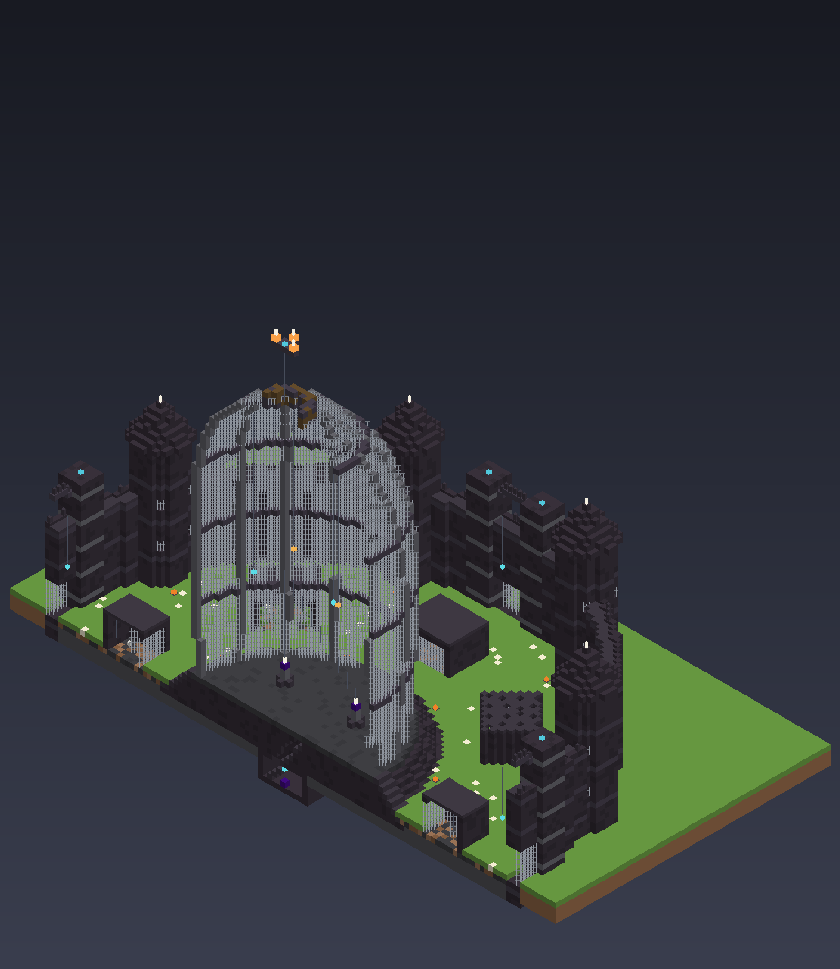
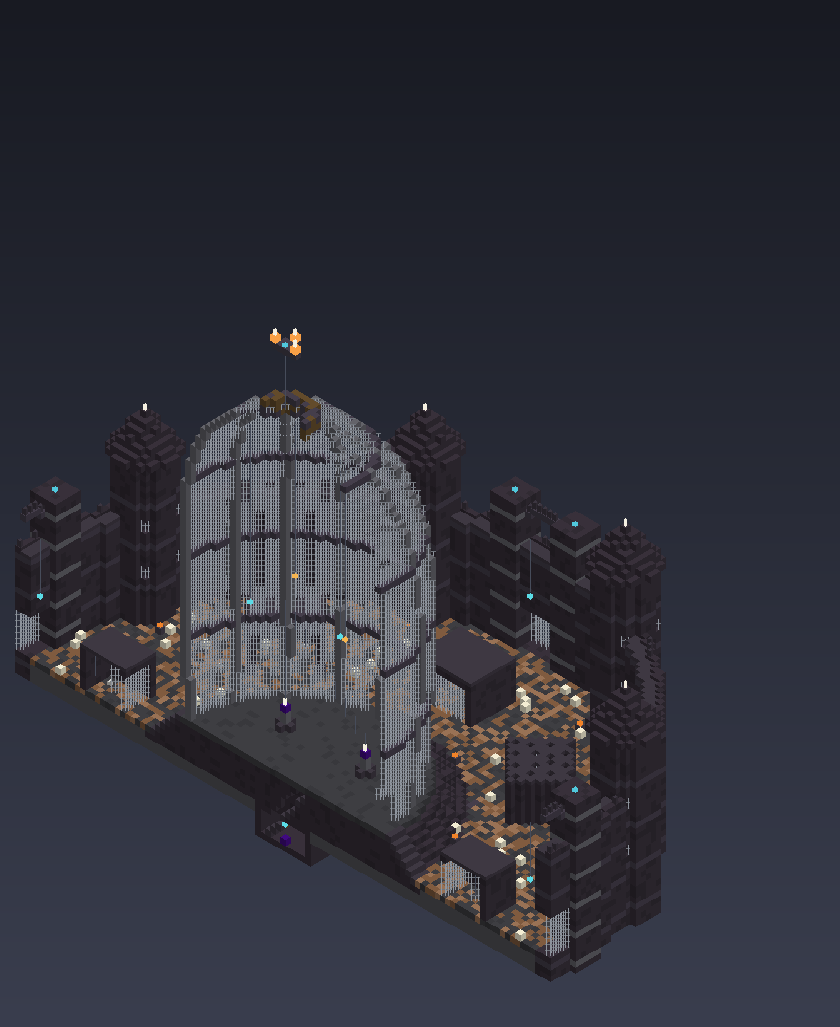
README for 0.3.0, version bump, keep the pack download cached even when the test fails
Claude-Session: https://claude.ai/code/session_01LHbBcTEf8UQnU4QoSVfnF2

diff --git a/unstable-frontiers/README.md b/unstable-frontiers/README.md
@@ -1,242 +1,166 @@
-# Unstable Frontiers
+# Unstable Frontiers 0.3.0 — an adventure expansion for Integrated Boogaloo
 
-A companion addon for the [Integrated Boogaloo](https://www.curseforge.com/minecraft/modpacks/integrated-boogaloo) modpack
-(by CraisinLord; Minecraft 1.21.1, NeoForge), built around the pack's [Antarchy](https://www.curseforge.com/minecraft/mc-mods/antarchy) creatures.
-Version 0.1.0 targeted Forge 1.20.1; from 0.2.0 it targets NeoForge 1.21.1 only.
-It adds the **Unstable Frontier**, a dangerous wilderness dimension in the spirit of OreSpawn's Danger Dimension: huge
-terrain, an ash-grey sky, cage towers on the skyline, and flying predators hunting giant insects at the foot of them.
+**Target: [Integrated Boogaloo](https://www.curseforge.com/minecraft/modpacks/integrated-boogaloo) 1.0.8** (CurseForge
+project 1501592, file 9325863): Minecraft 1.21.1, NeoForge 21.1.264, with the pack's
+**Antarchy 2.2.9+1.21.1** (required). The addon is built against exactly that NeoForge version and was tested against the
+pack's own jars, configs and KubeJS server scripts (see [Testing](#testing-what-was-checked-and-what-was-not)).
 
-This is **milestone 1**. It is a playable slice: the dimension, travel, one region, one cage tower design, bounded fights,
-one rivalry, one reward. The roadmap at the bottom covers the rest.
+It adds the **Unstable Frontier**: a wilderness the Cagewright once fenced in to hold Antarchy's monsters. You enter with a
+Rift Shard, follow a surveyor's journals from camp to camp, break open cages, rookeries and hives for the three parts of
+the Cagewright's Key, and use it on the **Great Cage** in the Rustbone Scar.
 
-## Compatibility: what is verified and what is not
+All structure pictures in this repository are **renders of the actual template files the game places**, drawn by
+`tools/structures/view.py`. They are not in-game screenshots.
 
-| | Status |
-|---|---|
-| Minecraft 1.21.1, NeoForge 21.1.x, Java 21 | Built against NeoForge 21.1.181 (the version Antarchy's own build uses); requires 21.1 or newer. **I have not seen the pack's exact NeoForge version yet.** |
-| Antarchy | **Optional dependency** (any version). Without it the addon uses vanilla stand-ins and says so in the log. |
-| Antarchy entity ids used | Read from Antarchy's public source, `common-1.21.1`/`neoforge-1.21.1` modules, version 2.2.9 (commit `f3e73b1e`): `mantis`, `alpha_mantis`, `scorpion`, `springbug`, `wasp`, `brutalfly`, `stratoshark`, `nightmare` and more (see the tags). **Not yet tested in a game with Antarchy installed.** |
-| Dedicated server | Smoke-tested in CI **without Antarchy** (see "Automated checks"). |
-| Client | Not tested by me; I cannot run a Minecraft client here. Client code is resources only (models, textures, lang). |
-| Integrated Superheroes, Morph, Electric Boogaloo (the pack's own mods) | Not integrated yet (milestone 5); their source is not public, so I need their real item ids from your install first. No Transformers mod is confirmed in the pack. Nothing in this addon disables powers or flight. |
+---
 
-Antarchy is "All Rights Reserved". This addon contains none of its code or assets; it refers to its creatures by id only,
-through config lists and optional tag entries, so nothing breaks when Antarchy is missing or renames something.
+## Install
 
-Antarchy's own dimensions (Cavaryn, Elythia, Thoraxis) are a termite horde world, a peaceful sky world and an inverted
-dream world. None plays the role of a danger dimension, so this addon adds its own rather than changing Antarchy's.
+1. Install Integrated Boogaloo **1.0.8** from CurseForge (or use your existing instance of that version).
+2. Put `unstable_frontiers-0.3.0.jar` in the instance's `mods` folder. Nothing else is needed: Antarchy is in the pack.
+3. Start the game. In a world, craft an **Unstable Rift Shard** (amethyst shards in the corners, crying obsidian on the
+   sides, an eye of ender in the middle) and use it.
 
-## Getting there and back
+If Antarchy is missing or too old, NeoForge stops at the loading screen and names it. If a datapack breaks a roster (or a
+future Antarchy renames a creature), the affected fight refuses to start and says which creature is missing, in chat and in
+`latest.log`; operators are told on login. The addon never swaps in other creatures.
 
-* **Unstable Rift Shard**: amethyst shards in the corners, crying obsidian on the sides, an eye of ender in the middle.
-  Use it anywhere to cross into the frontier, at the same x/z you left. Use it in the frontier to go back to where you left.
-  It is never used up (5 second cooldown).
-* **Safe arrival**: you land on the top solid block of your column. If that is water, lava, magma or nothing, a 3x3 deepslate
-  platform is built under you.
-* **Recovery**: lost your shard? `/frontier return` works for every player in the frontier (60 s cooldown). It takes you to
-  where you left; if that dimension is gone, to your respawn point; failing that, to world spawn. Your return point is
-  saved with your player data and survives death.
-* On arrival you are told how far, and which way, the nearest tower is.
+Existing worlds: the frontier is generated fresh the first time you enter it, so an existing Integrated Boogaloo world is
+fine. Only frontier chunks you have not visited get the new landmarks.
 
-## The frontier
+## The adventure
 
-Amplified terrain (towering cliffs and peaks) in two biomes:
+### Regions
 
-* **Gnashwood Wilds**: dark, choked forest of dark oak, giant pines and huge mushrooms, purple grass and blood-red leaves,
-  falling ash, a bruised violet sky. Wild skirmishes are common.
-* **Hushed Barrens**: sparse, grey and quiet. The breathing room: wild skirmishes are rare here unless a tower is near.
-
-Nights are dark but not blinding (ambient light 0.06), and night changes who is out: by day mostly insects with the odd
-stratoshark or brutalfly, by night more predators, and Antarchy's **Nightmare**.
-
-## The cage tower
-
-Original design, built from vanilla blocks. 25 x 25 footprint, 62 blocks tall, three stacked cages that step inward, and
-an open crown lit like a beacon so you can see it from far off.
-
-| Stage | Height | Who lives there (Antarchy / without Antarchy) | Chest |
-|---|---|---|---|
-| The Swarm Pen | floor 0 | mantises, scorpions / spiders, cave spiders | iron, gold, pearls, a diamond or three |
-| The Hatchery | floor 1 | scorpions, wasps, a springbug / cave spiders, spiders | diamonds, enchanted book, 20% netherite scrap |
-| The Aerie | floor 2 | stratosharks, wasps, a brutalfly, a blaze / phantoms, a blaze | diamonds, level-30 book, 35% scrap, 8% totem |
-| The Crown | top | an alpha mantis and two mantises / a ravager and two spiders | the vault: diamonds, scrap, a Cage Trophy, 25% netherite ingot, 20% enchanted golden apple |
-
-Every floor's chest sits on a pedestal in a small cage in the middle, visible through the bars from outside.
-
-**Ways in**: the south door; the ladder up the iron spine on the east face, with a bridge to every floor; the ladder inside
-each floor up through the ceiling; a bent-bar gap in every wall; flying in over the crown; or breaking the bars. **Nothing is
-unbreakable.** Robbing chests without fighting is allowed; the completion reward needs the fights.
-
-**How a fight works**
-
-1. Step inside a cage that is not cleared and it wakes (creative mode never wakes one).
-2. It sends `wavesPerFloor` waves (the crown sends one). Each wave waits for the cooldown and for the floor to thin out.
-3. The floor is cleared when every wave has come and every creature is dead. Cleared floors stay cleared for good.
-4. Clear all four stages and the tower is complete. Every player who fought there and is within 96 blocks gets 2 or 3
-   **Cage Trophies** and 150 experience, and on their first tower ever, the **Swarmbreaker**. Each player is rewarded once
-   per tower.
-
-**Limits and persistence**
-
-* One stage per tower fights at a time, however many players come. Several players share one fight; it is not duplicated.
-* The number of towers fighting at once on the server is capped.
-* Creatures spawn only while a player is near. If nobody is near for `disengageTicks` (20 s), the unfinished floor resets:
-  its creatures are removed and it can be fought again later. Cleared floors, completion and rewards are untouched.
-* Tower creatures are leashed: past `towerLeashRadius` they drop their target and walk back; far past it they are put back.
-* Tower state is saved in the frontier's `data/unstable_frontiers_towers.dat` (versioned). Unloading, reloading and
-  restarting cannot reset rewards. A creature from a fight that was reset while its chunk was unloaded is removed when the
-  chunk loads (each creature carries its tower id and fight session).
-* Towers are at least 9 chunks apart, on a 22-chunk grid (`worldgen/structure_set/cage_towers.json`), never over deep water.
-  Generation reads five heights per site and builds only the chunk being generated.
-
-## Living monster conflict
-
-The one rivalry in this milestone: **flying predators hunt ground insects** (entity tags `unstable_frontiers:raptors` and
-`unstable_frontiers:swarm`). Every few seconds near each player, if there are fewer wild creatures than the cap, a small
-skirmish is staged: two or three insects, and (always at night, 40% of the time by day) a predator above them. A predator with
-nothing to do is pointed at the nearest insect; the insect fights back with its own AI. Skirmishes favour the foot of a
-nearby tower.
-
-What keeps it bounded:
-
-* Only creatures this addon spawned take part. Pets, Antarchy's bosses and everything else are never touched, and no
-  creature's AI is replaced.
-* Searches are boxes around players (`rivalrySearchRadius`), never world scans, every `aiUpdateIntervalTicks`.
-* At most `rivalryFightsPerPlayer` fights near each player. A fight ends after `pursuitTicks` or when the two drift apart,
-  and the predator then rests for `rivalryCooldownTicks`.
-* Unloaded chunks do not tick, so no fight happens off-screen. Wild creatures are not persistent, so normal despawning clears
-  them when you leave, and the director restocks only near players. The frontier can't be emptied for good.
-* **Loot eligibility**: a frontier creature drops items and experience only if a player hurt it recently, and at most
-  `maxDropsPerMob` stacks. Predator-on-prey kills and unwatched fights leave no items on the ground.
-
-Antarchy's Nightmare also hunts other mobs on its own, through its own AI. This addon does not change that.
-
-## Rewards and progression
-
-* **Cage Trophy**: from tower completion (2 or 3) and every crown vault (1). Repairs the Swarmbreaker.
-* **Swarmbreaker** (glaive): 8 attack damage like a netherite sword, 1800 durability, fire-proof, +50% damage to insects
-  (`unstable_frontiers:frontier_insects` plus every vanilla arthropod). **Pounce**: use it to leap forward and up, then land in a
-  shockwave (6 damage, 9 to insects, knockback) with no fall damage. 8 second cooldown.
-  Won from your first tower, or crafted later from a netherite sword surrounded by four Cage Trophies.
-* Advancements, under their own tab: craft a shard, enter the frontier, step into a tower, take a trophy, own a Swarmbreaker.
-* Item tooltips are the in-game guide.
-
-Diamond or netherite gear is the starting point. The floors pay in diamonds, books and scrap, and only the vault gives
-netherite ingots. I have not compared this against Antarchy's own gear in play yet.
-
-## Configuration and presets
-
-`config/unstable_frontiers-common.toml`. Set `density.preset`, then override single values (-1 = use the preset).
-Every value is range-checked; NeoForge resets an out-of-range value to its default.
-
-| Limit | Conservative | **Standard** | High density |
-|---|---|---|---|
-| encounterMobsPerPlayer | 6 | **10** | 16 |
-| encounterMobsPerTower | 10 | **16** | 28 |
-| simultaneousTowerEncounters | 2 | **3** | 6 |
-| wavesPerFloor | 2 | **3** | 4 |
-| mobsPerWave | 3 | **5** | 8 |
-| waveCooldownTicks | 300 | **200** | 140 |
-| ambientMobsPerPlayer | 5 | **9** | 16 |
-| ambientSpawnIntervalTicks | 400 | **240** | 140 |
-| rivalrySearchRadius | 16 | **24** | 32 |
-| aiUpdateIntervalTicks | 60 | **40** | 20 |
-| rivalryFightsPerPlayer | 1 | **2** | 4 |
-| maxDropsPerMob | 3 | **4** | 6 |
-| particleDensity | 0.4 | **1.0** | 1.0 |
-
-Also: `pursuitTicks`, `rivalryCooldownTicks`, `towerLeashRadius`, `disengageTicks`, `towerChancePercent` (new chunks
-only), `returnCommandCooldownSeconds`, and every roster (entity ids, `@N` = at most N per wave). The tower spacing lives in
-the structure set JSON; a data pack can override it.
-
-These numbers are a starting point. They have **not been profiled** on your machine. Profile with Spark
-(`/spark profiler start`, fight a tower, `/spark profiler stop`) and send me the link. Many Antarchy creatures are large
-GeckoLib models; on an RX 6650 XT the render cost of a crowded floor is the thing to watch, and I can't predict a frame rate.
-
-**Memory**: Integrated Boogaloo has about 170 mods; give it 8 to 10 GB (CurseForge > Settings > Minecraft > Allocated Memory). Not more than about 12 GB of
-your 32: a larger heap means longer garbage-collection pauses, not more speed.
-
-## Commands
-
-| Command | Who | What |
+| Region | Look | What you find there |
 |---|---|---|
-| `/frontier return` | everyone, in the frontier | the recovery route home (cooldown) |
-| `/frontier go` | op | travel in, like the shard |
-| `/frontier locate` | op | nearest generated tower (up to 64 chunks) |
-| `/frontier stats` | op | towers known, fighting, tracked creatures, rivalry fights, effective limits |
-| `/frontier tower info` | op, standing in a tower's footprint | cleared stages, active stage, wave, alive, session, participants, rewarded |
-| `/frontier tower start <0-3>` | op | wake a stage now (runs even with nobody near, until it resets) |
-| `/frontier tower reset` | op | un-clear every stage and remove its creatures (rewarded players stay rewarded) |
-| `/frontier tower forget` | op | delete the tower's record entirely (it can reward everyone again) |
-| `/frontier tower build` | op | build a tower here, registered like a generated one |
+| **Gnashwood Wilds** | dark choked forest, blood-red leaves, falling ash | Gibbet Spires, Brood Hives, Carrion Fields, camps |
+| **Hushed Barrens** | grey, sparse, quiet | Gibbet Spires, the Hanging Gaol, Carrion Fields, camps |
+| **Talon Spires** | pale sky, hooked rock needles, floating islets | Rookeries, Carrion Fields, camps |
+| **Rustbone Scar** | red ground, bleached rib arches, crimson spores | the Great Cage (only here) |
 
-Use `/frontier tower build`, not `/place structure`: the vanilla command builds the blocks but saves no structure record,
-so the encounter system cannot see that tower.
+Terrain is standard overworld-style noise (hills, mountains, rivers, some sea). Earlier versions used amplified terrain,
+which left no room for the large landmarks.
 
-## Building
+### Landmarks
 
-Needs Java 21 and Gradle 8.10 or newer (or the Gradle that ships with your IDE). From this folder:
+| Landmark | Size | The fight | Reward |
+|---|---|---|---|
+| **Gibbet Spire** ([render](docs/renders/gibbet_spire.png)) | 47×100×47 | an octagonal birdcage spire: waves in the Swarm Pen, a Hatchery whose waves come from its egg clutches, an Aerie ambush from the hanging gibbets, and the **Crowned Mantis** (Antarchy alpha mantis) in the crown | Cage Trophy; the crown vault opens |
+| **Hanging Gaol** ([render](docs/renders/hanging_gaol.png)) | 65×82×49 | five cells hung over a pit on chains and rope bridges. Each prisoner (Hercules beetle, wasps, emperor scorpion, brutalfly…) is visible and dormant until you step aboard. Free four cells to unseal **the Gaoler** (manticore) | Cage Trophy; the warden's vault |
+| **Rookery** ([render](docs/renders/rookery.png)) | 55×104×55 | a leaning white crag with a nest of whole trees on top. Stratosharks roost on the perches, asleep until you land in the nest or strike one. Clear the roost and **the Rookmother** (Antarchy nightmare) comes in from the sky. Scavengers wait in the tunnel | Rookery Talon |
+| **Brood Hive** ([render](docs/renders/brood_hive.png)) | 61×54×61 | a mud-and-chitin mound: an ambush in the hall, a brood chamber that keeps hatching while its clutches stand, and **the Hive Tyrant** (Hercules beetle) on a chitin throne. The resin wall behind it opens when it dies | Hive Heart |
+| **Carrion Field** ([render](docs/renders/carrion_field.png)) | 67×34×41 | not a fight you start: a giant's skeleton still being eaten. Insects live in the ribs, predators on the spine, and they fight each other whether or not you are there | the gullet's chest |
+| **Expedition camps** (3 kinds) ([render](docs/renders/camp_torn.png)) | 29×16×29 | Ilsa Vane's camps: intact, ransacked from below, torn open from above. Each has a different journal on its lectern | supplies; the Rift Lens (60%) |
+| **Waysides** (4 kinds) ([render](docs/renders/wayside_impaled.png)) | ≤11 wide | a fallen gibbet, an impaled carcass, an egg cluster, a claw-raked stone: small marks between the big landmarks | — |
+| **The Great Cage** ([render](docs/renders/great_cage.png), [cutaway](docs/renders/great_cage_section.png)) | 115×100×115 | a ring-walled prison with drum towers, eight cell blocks and a domed birdcage. The Cagewright's Key opens the lock by the south door and wakes **the Cagewright's Beast** (Antarchy basilisk). While its four pylons stand it takes only a sixth of the damage; the pylon cores break quickly once the fight is on, and every one that falls brings flyers down from the dome | Heart of the Great Cage; the vault below |
+
+### How fights behave
+
+* **Situated, not spawned around you.** Prisoners, roosting flyers and residents are already in their places when you
+  arrive. A fight only starts when you enter its part of the landmark (or strike one of its creatures).
+* **Bounded.** No constant spawning: every fight has a fixed number of waves, and residents that are all killed move back
+  in only after a Minecraft day. Creature health and damage are each creature's own; nothing is inflated. Integrated
+  Boogaloo's own difficulty scaling (Boogaloo Core's KubeJS MobScaling) applies to these creatures as it does to any spawn.
+* **Telegraphed elites.** Guardians have a boss bar and abilities that are always announced first: a ring drawn on the
+  ground before a **slam**, a call before a **rally**, a crouch before a **pounce**, a breath before a **screech**
+  (slowness and darkness). Each can be avoided by reacting.
+* **Leave and it resets.** A fight nobody is near for 20 seconds resets; its creatures leave and you can try again.
+  Cleared parts stay cleared.
+* **Per-player loot.** Chests use loot tables, which Lootr (in the pack) turns into per-player chests. Trophies are given
+  once per player per landmark, to everyone who fought in it.
+* **Drops only from your kills.** A frontier creature drops loot and experience only if a player hurt it, so creatures
+  killing each other never pile up items.
+
+### Rewards and how they connect to the pack
+
+The rewards are built around Antarchy's own progression rather than bigger numbers.
+
+| Item | Where from | Use |
+|---|---|---|
+| **Cage Trophy** | Gibbet Spire, Hanging Gaol guardians | key part; repairs the Swarmbreaker |
+| **Rookery Talon** | the Rookmother | key part; forges and repairs the Shackle |
+| **Hive Heart** | the Hive Tyrant | key part; forges the Swarmbreaker |
+| **Cagewright's Key** | trophy + talon + heart + Antarchy uranium ingot + tripwire hook | opens the Great Cage |
+| **Heart of the Great Cage** | the Cagewright's Beast | builds a Cage Beacon |
+| **Rift Lens** | camps (60%), or spyglass + amethyst + Antarchy chitin | in the frontier: names the nearest cage, lair and camp with distance, direction and whether you have conquered it; shows the Great Cage once you carry the key |
+| **Swarmbreaker** | Hive Heart + 2 Antarchy mantis claws + netherite sword | brood-breaker glaive (Better Combat glaive moves in the pack). Hits like a netherite sword; +50% vs insects; Pounce lands in a shockwave that smashes egg clutches (ending a hatchery's waves sooner) and staggers insects. It is a crowd and nest tool, not a replacement for Antarchy's Ultimate or Big Bertha weapons |
+| **Cagewright's Shackle** | Rookery Talon + chains + lead | binds a hostile creature below a third of its health as an ally for 60 s; it then crumbles with no drops. Not on bosses (`c:bosses`, Antarchy's spell-resistant bosses) or elites. 6 uses |
+| **Cage Beacon** | Heart of the Great Cage + crying obsidian + iron bars | safe ground: no natural frontier spawns within 48 blocks and residents do not return there; anchors your Rift Shard so you arrive beside it |
+
+**Antarchy materials as bounties.** Landmark chests and creatures yield what Antarchy's own recipes need: mantis claws,
+springbug legs, stratoshark fins, brutalfly wings (Brutalfly Elytra), nightmare scales, emperor scorpion stingers and
+Hercules horns (Big Bertha parts), basilisk fangs, primordial scutes, uranium and titanium nuggets and ingots (Ultimate
+gear). The Gaol's cells are where to hunt for specific Big Bertha creatures.
+
+**Superheroes.** The Hulk serum in Marvel Superheroes wants Antarchy uranium; the Great Cage vault always holds uranium
+ingots, and when Marvel Superheroes is installed it has a 35% chance of an X-Gene (`marvel:x_genes`) for the serums. That
+entry lives in a loot table that only loads when that mod is present.
+
+**Flight, powers and transformations.** Nothing in the addon disables flight (Viltrumite Flight, Brutalfly Elytra,
+Manticore Wings) or powers. Flying past a climb does not skip a fight: sealed parts open only when the parts before them
+are cleared, and gates and vaults open only when their fight is won. Flyers in the Aerie, the roost and the Great Cage
+dome make the sky part of the fight.
+
+### Commands
+
+* `/frontier return` — everyone, in the frontier: go home (60 s cooldown). For when your shard is lost.
+* Operators: `/frontier go`, `/frontier locate <any|cage|lair|camp|great_cage>`, `/frontier stats`,
+  `/frontier landmark build <id> [rotation]`, `/frontier landmark info`, `/frontier landmark zone <zone> start|clear|reset`,
+  `/frontier landmark forget`, `/frontier debug rosters`, `/frontier debug dump <namespace>`.
+
+## Performance
+
+`config/unstable_frontiers-common.toml`. The limits protect the **server thread** (in single player, the integrated
+server on your CPU); your GPU is not what they affect.
+
+| Limit | CONSERVATIVE | **STANDARD** | HIGH_DENSITY |
+|---|---|---|---|
+| Landmark creatures alive per player / per landmark | 6 / 10 | 10 / 16 | 16 / 28 |
+| Fights running at once (server) | 2 | 3 | 6 |
+| Waves in a wave fight (unless the landmark sets its own) | 2 | 3 | 4 |
+| Creatures per wave | 3 | 5 | 8 |
+| Ticks between waves | 300 | 200 | 140 |
+| Residents per landmark | 4 | 6 | 10 |
+| Night overflight interval (ticks) | 12000 | 6000 | 3600 |
+| Rivalry search radius / update interval / fights per player | 16 / 60 / 1 | 24 / 40 / 2 | 32 / 20 / 4 |
+| Particle multiplier | 0.4 | 1.0 | 1.0 |
+
+**For your machine (32 GB RAM, Radeon RX 6650 XT, Core i3-12100-series):** use **STANDARD** (the default). The i3-12100 has
+four cores, and Integrated Boogaloo's 174 mods already load the server thread; HIGH_DENSITY is meant for 6+ cores. Give
+Minecraft 8–10 GB in the launcher (more than that does not help and lengthens garbage-collection pauses). If you see lag
+during the Great Cage fight, set `simultaneousEncounters = 1` and `particleDensity = 0.5` rather than switching preset.
+
+The addon's cost when nothing is fighting: one structure-reference lookup per player every 2 seconds and a short loop over
+known landmarks every half second. It never scans the world: every search is a box around one landmark or one player.
+
+## Testing: what was checked and what was not
+
+See [TESTING.md](TESTING.md) for the full report from the last CI runs. In short:
+
+* **Standalone checks** (no pack): data cross-references, compile, and "without Antarchy the server refuses to start and
+  names Antarchy".
+* **Pack checks** (Integrated Boogaloo 1.0.8's own jars for Antarchy, Integrated Superheroes, Marvel, Morph, Boogaloo Core,
+  Electric Boogaloo, KubeJS, Lootr, Curios, Better Combat, Witchery and their dependencies, plus the pack's configs and
+  KubeJS server scripts) on a dedicated server: every roster resolves, every landmark builds, every kind of fight starts
+  with real Antarchy creatures, gates open, and the landmarks generate naturally.
+* **Not tested**: the game client (I cannot run one), the full 174-mod pack at once, and actual play. How Antarchy's
+  creatures move and fight inside these structures has not been watched by a person.
+
+## Building from source
 
 ```
-gradle build
+cd unstable-frontiers
+python3 tools/structures/<landmark>.py    # regenerate a template + its sidecar (needs nbtlib, Pillow)
+python3 tools/datagen.py                  # rosters, worldgen, loot, recipes, advancements, lang, sounds
+python3 tools/textures.py                 # item and block textures
+python3 tools/check_data.py               # standalone data checks
+gradle build                              # Java 21, Gradle 8.10.2
 ```
 
-The jar is `build/libs/unstable_frontiers-0.2.0.jar`. Every push to this folder also builds it on GitHub Actions
-("Build Unstable Frontiers" workflow); the jar is the `unstable-frontiers-jar` artifact of the run.
+The jar is `build/libs/unstable_frontiers-0.3.0.jar`.
 
-Textures are drawn by `python3 tools/gen_textures.py` (needs Pillow).
+## Licence and credits
 
-## Installing
-
-Put the jar in the Integrated Boogaloo instance's `mods` folder (CurseForge: the pack's ⋮ menu > Open Folder). Antarchy and
-its dependencies are already in the pack. Use a **new world, or a new region of an old one**: the frontier is a new dimension, so
-existing worlds are not changed, but towers only appear in newly generated frontier chunks.
-
-## Automated checks
-
-`ci/smoke.sh` boots a dedicated NeoForge server with the addon and **without Antarchy**, then:
-builds a tower, finds it with the encounter lookup, wakes the Swarm Pen and checks that creatures spawned, waits for the
-idle floor to reset itself, wakes the Aerie and the Crown, resets the tower, and locates a naturally generated tower. It
-fails on any failed command, any exception in the log, or any missing step.
-
-## In-game test checklist
-
-Please try these and tell me what happens (with `logs/latest.log` if anything goes wrong):
-
-1. Craft a Rift Shard, use it. Do you arrive safely? Does chat point you to a tower? Can you see it?
-2. Use the shard again: are you back where you left? Then go in and try `/frontier return`.
-3. Walk around for a few minutes in each biome, by day and by night. Do predators fight insects? Do fights end on their own?
-4. Enter the tower's ground floor. Do waves come? Do creatures stay in or near the tower? Can you climb the outside ladder
-   and use the gaps?
-5. Clear all four stages. Do you get trophies and the Swarmbreaker? Try Pounce.
-6. Leave a floor half-fought for 30 seconds, come back: did it reset cleanly?
-7. Log out mid-fight, log back in: `/frontier tower info` should show the same state.
-8. With F3 open, note the FPS and the entity count (E:) in a busy fight, on STANDARD and on CONSERVATIVE.
-
-## Known limitations and placeholders
-
-* **No original creatures yet.** Fights use Antarchy's creatures (or vanilla stand-ins). The stand-ins (spiders, phantoms,
-  a ravager crown guardian) are placeholders, not finished content.
-* Item textures are original but simple 16x16 pixel art. Not final.
-* The sky is a biome tint on the overworld sky; no custom sky renderer yet. No floating islands yet.
-* One tower size only (the "small/medium/enormous" variants come after you've tested this one).
-* Rewards go only to participants online and within 96 blocks when the tower completes.
-* Antarchy creatures' own behaviour (despawn rules, special abilities, the Nightmare's hunting) is theirs; the leash and caps
-  bound tower fights around them, but I could not watch them in a game.
-* Balance against Antarchy's equipment is untested.
-
-## Roadmap
-
-1. **Milestone 1 (this)**: dimension, travel, one region, the three-floor tower, bounded fights, one rivalry, one reward,
-   limits, debug commands.
-2. **Regions and towers**: floating landforms, two more regions with their own creature communities and landmarks, medium and
-   rare enormous tower variants, a custom sky with an eerie night.
-3. **Creatures and nests**: three original creatures (a charging ground insect, a swooping flying predator with a telegraph,
-   a nest guardian miniboss) with their own models, sounds, drops and weaknesses; nests with clues, optional fights, loot
-   and limited reinforcements; more rivalries (nest defenders against intruders).
-4. **Equipment and progression**: movement gear, more weapons with abilities, rare treasures, trophy unlocks, a harder
-   region and a major challenge.
-5. **Optional integrations**: the pack's Integrated Superheroes, Morph and Electric Boogaloo (and a Transformers mod if you add one), only after checking their real item ids. Disabled
-   automatically when they are absent. Encounters account for flight with ranged threats and objectives, not by turning
-   powers off.
-6. **Polish**: sounds, particles, music, visuals.
+Original code, structures, textures and writing. Antarchy (All Rights Reserved) is referenced by id only: no Antarchy code
+or assets are included. Sounds are vanilla sound events played through this mod's own sound definitions.
